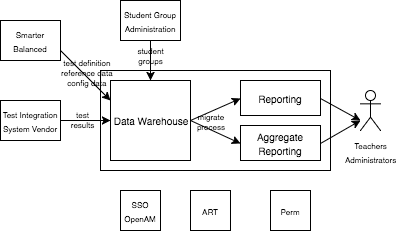
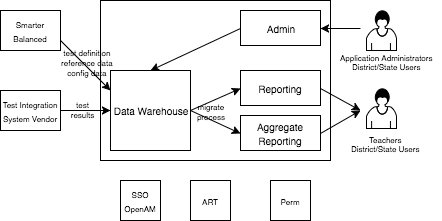
feedback from review

diff --git a/docs/API-Ingest.md b/docs/API-Ingest.md
@@ -212,7 +212,7 @@ curl --header "Authorization:Bearer {access_token}" https://import-service/impor
 End-points for submitting exams aka test results.
 
 #### Create Exam Import Request
-Accepts payloads in Test Result Transmission ([TRT][3]) format, creating new exam import requests. 
+Accepts payloads in Test Result Transmission ([TRT][3]) format, creating new exam import requests. Based on the data in the TRT this may result in an exam being created, updated or deleted. Exams are identified using the opportunity id and assessment id. If an incoming exam is not found in the system one will be added. If a matching exam already exists, it will be updated or, if the new status is `reset`, it will be deleted.
 
 There are two ways of posting exam content: with a raw body of type `application/xml` or form-data (file upload).
 
@@ -267,11 +267,7 @@ curl -X POST --header "Authorization:Bearer {access_token}" -F file=@winterICA.1
 ```
   
 #### Resubmit Exams
-The system accepts and stores import payloads regardless of processing status. For imports with certain problems like 
-an unknown school or assessment, the import may be "replayed" once the underlying cause is resolved. For example, if
-the missing school is added to the system, all affected exams can be resubmitted, without requiring the client to 
-re-post the data. Note that this is meant as an operational utility; if it is being used regularly there are probably
-fundamental data flow issues. 
+The system accepts and stores import payloads regardless of processing status. For imports with certain problems like an unknown school or assessment, the import may be "replayed" once the underlying cause is resolved. For example, if the missing school is added to the system, all affected exams can be resubmitted, without requiring the client to re-post the data. Note that this is meant as an operational utility; if it is being used regularly there are probably fundamental data flow issues. 
 
 * Host: import service
 * URL: `/exams/imports/resubmit`
@@ -303,10 +299,7 @@ curl -X POST --header "Authorization:Bearer {access_token}" https://import-servi
 End-points for submitting organization data; this includes districts, schools, and groups of institutions. 
 
 #### Create Organization Import Request
-Accepts JSON payload, compatible with the format produced by ART. The payload should contain all the organization
-data necessary to resolve all contents; for example, if a school is in a group under a district, all three must
-be present in the payload. The payload must be valid JSON but the exact structure doesn't matter a lot: the system
-will parse the payload looking for the required fields: `entityType`, `entityId`, `entityName`, `parentEntityId`. 
+Accepts JSON payload, compatible with the format produced by ART. The payload should contain all the organization data necessary to resolve all contents; for example, if a school is in a group under a district, all three must be present in the payload. The payload must be valid JSON but the exact structure doesn't matter a lot: the system will parse the payload looking for the required fields: `entityType`, `entityId`, `entityName`, `parentEntityId`. 
 
 There are two ways of posting content: with a raw body of type `application/json` or form-data (file upload).
 
@@ -453,16 +446,12 @@ curl -X POST --header "Authorization:Bearer {access_token}" -F file=@accommodati
 ``` 
         
 ### Package Endpoints
-End-points for submitting assessment package data. This is data authored by Smarter Balanced that describes the 
-assessments, items and other test details. This end point can be used to either import new packages or update existing 
-ones. When an assessment is created, the following data elements are considered critical in properly parsing incoming 
-Exam requests and cannot be updated later:
+End-points for submitting assessment package data in CSV format (tabulator output). This is data authored by Smarter Balanced that describes the assessments, items and other test details. This end point can be used to either import new packages or update existing ones. When an assessment is created, the following data elements are considered critical in properly parsing incoming Exam requests and cannot be updated later:
 * grade
 * subject 
 * sub-type (ICA, IAB or Summative)
 
-An attempt to update any of the above data elements will result in the "PROCESSED" status and the message stating that 
-it was rejected.
+An attempt to update any of the above data elements will result in the "PROCESSED" status and the message stating that it was rejected.
 
 #### Create Package Import Request
 Accepts payloads in the Smarter Balanced Assessment Tabulator format. This is a CSV format produced by the internal

diff --git a/docs/Monitoring.md b/docs/Monitoring.md
@@ -6,9 +6,18 @@
 
 Monitoring RDW applications includes monitoring:
 
-* Database. 
-* Logging.
-* Application Status.
+* [Database](#database)
+    * [Import Status](#import-status)
+    * [Monitor Ingest Speed](#monitor-ingest-speed)
+    * [Monitor Time-To-Warehouse](#monitor-time-to-warehouse) 
+    * [Validate Migrate Data Integrity](#validate-migrate-data-integrity)
+    * [Monitor Migrate Failures](#monitor-migrate-failures)
+    * [Monitor Migrate Rate](#monitor-migrate-rate)
+    * [System Use By Date](#system-use-by-date)
+* [Logging](#logging)
+    * [Log Collection](#log-collection)
+    * [Log Messages](#log-messages)
+* [Application Status](#application-status)
 
 ### Database 
 There are a number of tables that provide useful information about the state of the system.
@@ -96,6 +105,9 @@ GROUP BY delay, bucket
 ORDER BY bucket DESC, delay;
 ```
 
+#### Validate Migrate Data Integrity
+There is a script that reports on data discrepancies between the data warehouse and the reporting data mart(s). Detailed instructions for running that scripts and interpreting the results can be found in [RDW_Schema](https://github.com/SmarterApp/RDW_Schema) under the `validation` folder.
+
 #### Monitor Migrate Failures
 The migrate process is managed by the “migrate-reporting” service. The service records its status into the table. For all possible migrate statuses please refer to `migrate_status` table:
 
@@ -112,7 +124,7 @@ If there are failures refer to [Troubleshooting][1] to resolve.
 
 **This condition requires immediate attention since new test results will not be visible in the reporting application until it is resolved**.
  
-#### Monitor Migrate Speed
+#### Monitor Migrate Rate
 The  “migrate-reporting” service continuously migrates newly imported data from `warehouse` to `reporting`. The data is moved in batches defined by the `migrate`'s `first_at` and `last_at` timestamps. Each batch is different and hence the processing time will vary, but in general it is expected to take less than a minute.
 
 To establish an average speed of the migrate for a particular installation, check the processing speed of the successful migrates on any given day:

diff --git a/docs/Architecture.md b/docs/Architecture.md
@@ -9,6 +9,7 @@ The RDW is divided into sub-systems based on data, performance and scalability r
 * **Data Warehouse**. This is where data enters the system. It is the collection of all assessment definitions, institutions, students, student groups, and test results. It includes supplemental reference data such as subject claims and traits, common core standards, accessibility/accommodation codes and descriptions, ethnicities, and grades.
 * **Reporting**. This is the main reporting data mart and web UI. The test results have been optimized for presentation to teachers and administrators to allow them to quickly view results.
 * **Aggregate Reporting**. This is the system for viewing test results through the lens of aggregation, trends, etc. The test results have been optimized for slicing and dicing.
+* **Admin**. This is the system for performing application administrative tasks such as uploading student groups, configuring assessment subjects, embargoing/releasing test results, etc. 
 
 The RDW uses other systems from the SBAC Open Test System environment, including:
 

diff --git a/docs/Runbook.migrate.md b/docs/Runbook.migrate.md
@@ -40,7 +40,7 @@ There are core tables that are created as part of the initial schema and are not
 - exam_claim_score_mapping
 - migrate
 
-The `migrate` table is the main control table for the migrate. It stores the migrate status and the timestamp range of content handled by each migrate job. The migrate process is managed by the “migrate-reporting” service.
+The `migrate` table is the main control table for the migrate. It stores the migrate status and the timestamp range of content handled by each migrate job. The migrate process is managed by the “migrate-reporting” service. The service migrates data in chunks using **created** and **updated** timestamps in the master tables. The starting and ending timestamps for each chunk are derived from the **import** table.
   
 <a name="create-update"></a>
 ### Create/Update Data
